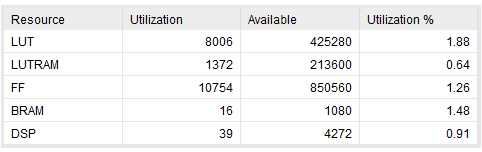
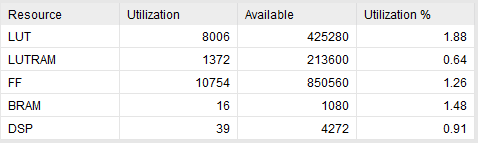
backing report up

diff --git a/report/19496 Final Report - Fraser O'Regan/main.tex b/report/19496 Final Report - Fraser O'Regan/main.tex
@@ -62,25 +62,52 @@
 \definecolor{mylilas}{RGB}{170,55,241}
 
 
+% Default fixed font does not support bold face
+\DeclareFixedFont{\ttb}{T1}{txtt}{bx}{n}{12} % for bold
+\DeclareFixedFont{\ttm}{T1}{txtt}{m}{n}{12}  % for normal
+
+% Custom colors
+\usepackage{color}
+\definecolor{deepblue}{rgb}{0,0,0.5}
+\definecolor{deepred}{rgb}{0.6,0,0}
+\definecolor{deepgreen}{rgb}{0,0.5,0}
+
+\usepackage{listings}
+
+% Python style for highlighting
+\newcommand\pythonstyle{\lstset{
+language=Python,
+basicstyle=\ttm,
+morekeywords={self},              % Add keywords here
+keywordstyle=\ttb\color{deepblue},
+emph={MyClass,__init__},          % Custom highlighting
+emphstyle=\ttb\color{deepred},    % Custom highlighting style
+stringstyle=\color{deepgreen},
+frame=tb,                         % Any extra options here
+showstringspaces=false
+}}
+
+
+% Python environment
+\lstnewenvironment{python}[1][]
+{
+\pythonstyle
+\lstset{#1}
+}
+{}
+
+% Python for external files
+\newcommand\pythonexternal[2][]{{
+\pythonstyle
+\lstinputlisting[#1]{#2}}}
+
+% Python for inline
+\newcommand\pythoninline[1]{{\pythonstyle\lstinline!#1!}}
+
+
 \begin{document}
 
 
-\lstset{language=Matlab,%
-    %basicstyle=\color{red},
-    breaklines=true,%
-    morekeywords={matlab2tikz},
-    keywordstyle=\color{blue},%
-    morekeywords=[2]{1}, keywordstyle=[2]{\color{black}},
-    identifierstyle=\color{black},%
-    stringstyle=\color{mylilas},
-    commentstyle=\color{mygreen},%
-    showstringspaces=false,%without this there will be a symbol in the places where there is a space
-    numbers=left,%
-    numberstyle={\tiny \color{black}},% size of the numbers
-    numbersep=9pt, % this defines how far the numbers are from the text
-    emph=[1]{for,end,break},emphstyle=[1]\color{red}, %some words to emphasise
-    %emph=[2]{word1,word2}, emphstyle=[2]{style},    
-}
 
 
 
@@ -116,7 +143,9 @@
 \section*{Nomenclature}
 \begin{itemize}
     \item \textcolor{red}{\large Fix references to all have same format and include access dates}
+    \textcolor{red}{GO THROUGH AND FIX NOMENCLATURE and equation symbols}
 \end{itemize}
+\addcontentsline{toc}{section}{Nomenclature}
 
 
 \subsection*{Abbreviations}
@@ -140,9 +169,11 @@ RTL & Register Transfer Level\\
 HLS & High Level Synthesis\\
 AXI & Advanced eXtensible Interface\\
 SDK & Software Development Kit\\
+XSA & Xilinx Support Archive\\
 OS & Operating System\\
 AM & Amplitude Modulation\\
 OFDM & Orthogonal Frequency Division Multiplexing\\
+FT & Fourier Transform
 NCO & Numerically Controlled Oscillator\\
 LUT & Look Up Table\\
 ROM & Read Only Memory\\
@@ -190,6 +221,7 @@ The primary aim of this project is to implement an SDR system on a novel piece o
 
 \newpage
 \section{Background \& Literature Review}
+\subsection{RFSoC Architecture}
 This project will focus on the implementation of the aforementioned software and design techniques onto the Zynq UltraScale+ RFSoC (which from now on will just be referred to as the RFSoC) by AMD \cite{amd_zynq_rfsoc}. The RFSoC is an all configurable system-on-chip (SoC) device targeted towards RF applications \cite{RFSoC_Book}. A system-on-chip is an integrated circuit (IC) that features almost all high level functions needed for computation into a single chip, as opposed to the traditional method of having these different components mounted to the motherboard. This allows for a far smaller and more portable package, making it ideal for applications such as communications, mobile devices, and many more. The RFSoCs architecture features two main sections, the Processing System (PS), and the Programmable Logic (PL). The AMD RFSoC utilises the software programmability of processors, in the form of either two or four ARM cores (depending on the generation), along with the hardware programmability of a Field Programmable Gate Array (FPGA). The PL features a number of different \enquote{hardened} blocks, aptly named due to the fact that they have their own dedicated space on the silicon and can not be reconfigured in either software or hardware. The different hardened blocks can be seen below in Figure \ref{fig:RFSoC_overview}.
 
 \begin{figure}[h]
@@ -199,14 +231,7 @@ This project will focus on the implementation of the aforementioned software and
     \label{fig:RFSoC_overview}
 \end{figure}
 
-From left to right, the hardened blocks shown in Figure \ref{fig:RFSoC_overview} are: Gigabit (GTY) transceivers, a high speed serial data link needed for communication to a core network when working with modern communication standards. Additionally, Soft Decision Forward Error Correction (SD-FEC) blocks feature on the chip, since almost all forms of wireless communications require, at some stage, an error correction phase which mitigates against the different errors procured in the wireless channel. Finally, the RFSoC has dedicated RF Data Converter (RFDC) blocks. These blocks can be configured as either Digital to Analogue Converters (DACs), for data transmission, or Analogue to Digital Converters (ADCs), which are used to convert real data to the digital domain, where the signal can be analysed using numerous DSP techniques.
-
-The PYNQ project by AMD \cite{PYNQ} is another supporting framework that focuses on SoC devices. PYNQ utilises Python application programming interfaces (APIs) to streamline the development of embedded systems on AMD chips. PYNQ itself is a small linux based boot image that runs on the chip, with different commands to control the hardware; however, PYNQ also utilises Jupyter notebooks, in which python code can be ran in different cells, along with accompanying markdown code for readability. Hardware Description Language (HDL) \enquote{bitstreams} can be accessed in the notebook as \enquote{overlays}. The overlays must be used in the project by exporting the Vivado block design, and locating the \textbf{\textit{.hwh}} and \textbf{\textit{.bit}} files. From there, they can be implemented, however an engineer may need and can be reused indefinitely, unless the overlay itself needs to be altered. There are many methods to design a custom overlay to be used in PYNQ; however, the most common ways include writing custom Register Transfer Level (RTL) code using VHDL or Verilog; Writing C/C++ code to be synthesised into HDL code through AMDs Vitis High Level Synthesis (HLS) tool \cite{AMD_Vitis_HLS_2024}; or through Vitis Model Composer, a block based modelling system that uses MATLAB and Simulink to generate HDL code \cite{AMD_Vitis_Model_Composer_2024}.
-
-\textcolor{red}{axi section here}
-
 The Advanced eXtensible Interface (AXI) is a communication protocol defined by ARM as part of the Advanced Microcontroller Bus Architecture (AMBA) standard \cite{axi_article}. The AXI4 standard has three different forms: AXI4-Lite, for simple, low-throughput communications,for example, driving an enable register pin; AXI4-Stream, for high-speed streaming data; and full AXI4, which is used for high-performance applications. Typically, embedded systems, such as FPGAs, operate with a master-slave topology between different devices \cite{strathsdr_axi}. The master device can connect to multiple slave devices through a communication protocol, and slave devices can be controlled by multiple masters, executing commands only when driven by a master device. AXI follows this same principle, with read and write channels transferring data between the master and slave components in a hardware design.
-
 
 AXI4 uses handshake operations, where a handshake is successful when both the valid and ready signals are high on the same clock cycle \cite{strathsdr_axi}. 
 
@@ -247,14 +272,43 @@ For example, to implement a stream of data on the master side, the signal would 
 
 The AXI4 protocol plays a fundamental role in modern embedded systems, particularly in AMD SoC devices. In this project, AXI4-Stream is essential for efficiently transferring large volumes of data between multiple IP cores within the FPGA, ensuring high-performance communication and system integration.
 
+From left to right, the hardened blocks shown in Figure \ref{fig:RFSoC_overview} are: Gigabit (GTY) transceivers, a high speed serial data link needed for communication to a core network when working with modern communication standards. Additionally, Soft Decision Forward Error Correction (SD-FEC) blocks feature on the chip, since almost all forms of wireless communications require, at some stage, an error correction phase which mitigates against the different errors procured in the wireless channel. Finally, the RFSoC has dedicated RF Data Converter (RFDC) blocks. These blocks can be configured as either Digital to Analogue Converters (DACs), for data transmission, or Analogue to Digital Converters (ADCs), which are used to convert real data to the digital domain, where the signal can be analysed using numerous DSP techniques.
 
-This project focuses on the BittWare RFX-8440 (referred to as the RFX from now on) L band transceiver PCIe card \cite{bittware2024rfx}. A high performance hardware device powered by a Gen3 RFSoC, with up to eight RFDCs, featuring Multi gigahertz bandwidth for any SDR applications necessary. Traditionally, PYNQ is only natively available on certain development boards created by AMD such as the RFSoC 2x2, 4x2, or the PYNQ Z-2 board. For PS-PL communication, the RFX uses PetaLinux, a Linux Software Development Kit (SDK) used for embedded Xilinx (AMD) processing systems. PetaLinux is a powerful tool for embedded system design, however, it is less user friendly than PYNQ due to the user needing a proprietary knowledge of the Linux kernel. PetaLinux is a small Linux based operating system which targets a specific hardware image using an exported .xsa file, and runs entirely on the PS.
+\subsection{Supporting Toolchains and Software}
+
+The PYNQ project by AMD \cite{PYNQ} is another supporting framework that focuses on SoC devices. PYNQ utilises Python application programming interfaces (APIs) to streamline the development of embedded systems on AMD chips. PYNQ itself is a small linux based boot image that runs on the chip, with different commands to control the hardware; however, PYNQ also utilises Jupyter notebooks, in which python code can be ran in different cells, along with accompanying markdown code for readability. Hardware Description Language (HDL) \enquote{bitstreams} can be accessed in the notebook as \enquote{overlays}. The overlays must be used in the project by exporting the Vivado block design, and locating the \textbf{\textit{.hwh}} and \textbf{\textit{.bit}} files. From there, they can be implemented, however an engineer may need and can be reused indefinitely, unless the overlay itself needs to be altered. There are many methods to design a custom overlay to be used in PYNQ; however, the most common ways include writing custom Register Transfer Level (RTL) code using VHDL or Verilog; Writing C/C++ code to be synthesised into HDL code through AMDs Vitis High Level Synthesis (HLS) tool \cite{AMD_Vitis_HLS_2024}; or through Vitis Model Composer, a block based modelling system that uses MATLAB and Simulink to generate HDL code \cite{AMD_Vitis_Model_Composer_2024}.
+
+
+This project focuses on the BittWare RFX-8440 (referred to as the RFX from now on) L band transceiver PCIe card \cite{bittware2024rfx}. A high performance hardware device powered by a Gen3 RFSoC, with up to eight RFDCs, featuring Multi gigahertz bandwidth for any SDR applications necessary. Traditionally, PYNQ is only natively available on certain development boards created by AMD such as the RFSoC 2x2, 4x2, or the PYNQ Z-2 board. For PS-PL communication, the RFX uses PetaLinux, a Linux Software Development Kit (SDK) used for embedded Xilinx (AMD) processing systems. PetaLinux is a powerful tool for embedded system design, however, it is less user friendly than PYNQ due to the user needing a proprietary knowledge of the Linux kernel. PetaLinux is a small Linux based operating system which targets a specific hardware image using an exported Xilinx Support Archive (.xsa) file, and runs entirely on the PS.
 
 Linux based operating systems (OS) are uncommon in most home laptops/PCs but are extremely common in industry applications. Linux is almost guaranteed to be the operating system of choice for data centres, R\&D labs, servers, and even more. Linux is extremely important to the infrastructure of communication systems, as all network protocol servers will run some sort of Linux distribution. Linux is so popular because of its open-source nature, meaning that anyone has access to the source code, giving them the ability to customise the operating system and create specific distributions. 
 
 GNU Radio has many tutorials to get someone up to speed with the software, as well as having a recommended reading section for general SDR and communication techniques. These tutorials range from simple Amplitude Modulation (AM), to Orthogonal Frequency Division Multiplexing (OFDM), a far more advanced communication technique, where a signal is split up into multiple narrowband carrier frequencies rather than taking up lots of bandwidth with one carrier frequency \cite{ofdm_paper}. These tutorials are an extremely useful learning tool, as they provide an interactive experience where someone can build different types of communication systems along with learning about them.
 
 GNU Radio has been around for over 20 years, and with the ever growing application and need for SDR systems to be used in everyday environments, GNU Radio has served as an incredibly useful tool. Whether someone is new to SDR or is a veteran, GNU Radio provides a fantastic platform for developing these systems. As mentioned earlier, GNU Radio provides something called an ‘out of tree’ (OOT) module, this is essentially a custom block that is either written in C++ (for more computationally intensive DSP) or Python (for simpler tasks). These OOT modules are aptly named since they are not part of GNU Radios ‘source tree’ [10], or more simply, are not native to the software. There are a number of heavily supported hardware that GNU Radio mentions on their website. This hardware is usually relatively inexpensive which makes it great for beginners, however, the RFX is not one of these boards. GNU Radio has something called the ‘Catch-All Clause’ which states that any hardware device that can be accessed by an operating system can support GNU Radio, usually by writing custom device drivers in the form of sinks or sources. Since this project focuses mostly on the deployment of an SDR system, there is a workaround for writing custom drivers for the RFX.
+
+\subsection{Important DSP Fundamentals}
+
+Throughout this project, a number of DSP and communication theory was used to design, assess, and confirm the operation of different systems within this project. This section will cover a number of basic DSP and communication fundamentals to allow the reader to have a better understanding of the different concepts being discussed throughout this project. Arguably the most important concept in DSP (and signal processing in general) is the Fourier Transform (FT). The FT is a highly complex concept with many different applications in different fields of engineering and science, so this report will not dive particularly deep into the derivation of how the FT came to be, but will focus more on its definition, and how it is used in this case. The FT stems from the Fourier series, discovered by Joseph Fourier, which essentially states that any periodic signal can be decomposed into a sum of different harmonically related sine and cosine components \cite{RFSoC_Book}. In the context of signal processing, the FT takes any signal, which is assumed to periodic (if not - it is assumed the signal is periodic at $t=\infty$), and produces a number of coefficients that represent a magnitude and phase of the signal over time. These coefficients can then be plotted to produce a waveform which can tell an engineer about the frequency properties of a signal. The FT is defined in Equation \ref{eq:fourier Transform}.
+
+\begin{equation}
+    X(j\omega) = \int_{-\infty}^{\infty}x(t)e^{-j\omega t}dt\label{eq:fourier Transform}
+\end{equation}
+
+Taking the FT of a wave form can be thought of as transforming the signal from the time domain, to the frequency domain. To illustrate this, a time domain and its frequency domain counterpart were plotted in MATLAB. This is shown in Figure \ref{fig:FT_example}.
+
+\begin{figure}[h]
+    \centering
+    \includegraphics[scale=0.45]{IMAGES/Sine.png}
+    \includegraphics[scale=0.45]{IMAGES/Sine_FT.png}
+    \caption{Time and Frequency Domain Representations of Sinusoid at $1Hz$}
+    \label{fig:FT_example}
+\end{figure}
+
+The FT of the signal shows a peak at $1Hz$, which is the exact frequency of the signal present. However, in more real world examples, the FT of a signal can show multiple peaks at different frequencies as signals can have many different frequency components. In most cases, the FT is not directly computed, as it is quite inefficient to calculate as it takes $n^2$ operations. More commonly, a DSP algorithm called the Fast Fourier Transform (FFT) of a signal is calculated as it is far more computationally inexpensive, allowing for more complex signals to be analysed.
+
+\subsection{Previous Work}
+\textcolor{red}{Maybe change this name}
 
 section plan:
 
@@ -298,7 +352,7 @@ section plan:
     \item With axi stream, talk about how the data needs to be formatted before being sent out.
     \item Talk about ILA t
     \item \textcolor{red}{talk about gnu radio proposed design}
-    \item \textcolor{red}{}
+    \item \textcolor{red}{talk about issues ran into that and why u made changes to fix them - then go into more detail in Discussion}
 \end{itemize}                          
 \newpage
 
@@ -477,6 +531,8 @@ The RFSoC 2x2 is no longer manufactured and has since been replaced by the newer
 
 \paragraph{BittWare RFX-8440 2x100gbe Design Implementation} The Design implementation for the RFX is slightly different to that of the RFSoC 2x2, as the custom transmitter and receiver were instantiated as components inside of a significantly larger design. When shipping their cards, BittWare includes a number of \enquote{reference} designs, which are used to help customers understand and test the operation of the card, without having to design systems completely from the ground up. This design approach was taken for this project, as the previously mentioned transmitter and receiver were implemented within a larger design, rather than a fully custom one. The reference design in this case is the RFX8440-2x100gbe, which configures the entire FPGA, including all RFDC channels, the gigabit transceivers, and the PS. The project is aptly named because of it uses the two 100 gigabit Ethernet Quad Small Form-factor Pluggable (QSFP) transceivers, which can be connected to the card for high speed optical communications. The block diagram from BittWare's framework logic guide of the 2x100gbe design can be seen in Figure \ref{fig:2x100gbe_block_diagram} \cite{RFX_framework}.
 
+\textcolor{red}{TALK ABOUT THE FOLDER STRUCTURE}
+
 \begin{figure}[h!]
     \centering
     \includegraphics[scale=1]{IMAGES/Picture 1.png}
@@ -484,13 +540,11 @@ The RFSoC 2x2 is no longer manufactured and has since been replaced by the newer
     \label{fig:2x100gbe_block_diagram}
 \end{figure}
 
-\textcolor{red}{ADD BLOCK DESIGN FOR RFX FROM DEREK \& talk about how to build the project}
-
 This design is highly complex, since it features all components of the FPGA in a single bitstream. Inside of the design, and in Figure \ref{fig:2x100gbe_block_diagram}, is the DSP placeholder block, which has been designed for customers or other engineers to implement there own form of DSP without having to reconfigure the entire design with all of the I/O. Despite what Figure \ref{fig:2x100gbe_block_diagram} shows, the DSP placeholder is not an actual block inside of the Vivado IP integrator design that can be replaced with the users IP, but rather a VHDL file named \textbf{ii\_dsp\_top.vhd}. Functionally, this file connects the RFDCs together, involving no DSP at either the DAC or ADC side. The reference designs are inside a folder that can be downloaded or purchased by customers that may be interested in starting their designs from a known point. Building the Vivado project involves navigating to the 2x100gbe project folder inside of the Vivado Tool command language (Tcl) console \cite{AMD_Vivado_Tcl}, then running the \textbf{Build\_Vivado.tcl} script. This script launches the project and builds the block design(s) with the necessary IP added, and connections already made, a process which can take up to an hour.
 
 Implementing custom IP inside of the 2x100gbe design is slightly different to that of the 2x2 design, as it is not added inside of a block design, but rather through a component instantiation using VHDL. When the transmitter IP is added to the project, its output products are generated, which includes an instantiation template inside of the \textbf{.vho} file. VHDL components are how separate top level entity declarations can be re-used inside of other designs. The component definition for the transmitter design can be seen in Listing \ref{list: tx def}.
 
-\begin{listing}[h]
+\begin{listing}[h!]
 \begin{minted}{vhdl}
 COMPONENT DUT_data_in_16bit
   PORT (
@@ -514,7 +568,7 @@ END COMPONENT;
 
 After defining the component inside of the \textbf{dsp\_top} entity, it can then be instantiated, as in Listing \ref{list: component instantiation}.
 
-\begin{listing}[h]
+\begin{listing}[h!]
 \begin{minted}{vhdl}
   fraser_user_code : DUT_data_in_16bit
   PORT MAP (
@@ -563,12 +617,25 @@ The question mark operator exports the contents of the bitstream into the jupyte
 
 After loading the overlay onto the FPGA, it is necessary to configure the reference clocks in software before initiating any PS–PL communication. The two required reference clocks for configuring the 2x2 board are the LMX and LMK clocks. These reference clocks are aptly named because they provide a high precision, low jitter clock for the RFDCs to use as a reference when generating their own clocks. Jitter refers to the variation in clock period between two consecutive cycles over a span of 1000 cycles \cite{jitter}. The required frequencies for the LMK and LMX clocks can be found in the  Xilinx PYNQ GitHub repository, specifically in the \textbf{xrfclk} package, which also includes a built in function to set the reference clocks with user defined frequencies, according to the board.
 
-Although the RFDCs are pre-configured in hardware, they must also be properly initialized in software for the design to function correctly. Extensive resources are available online for configuring RFDCs, with the StrathSDR GitHub page being a particularly valuable source, offering numerous open-source projects that utilize RFSoC and configure it through PYNQ. This is achieved using the \textbf{xrfdc} Python package, which provides an interface to the RFDCs, ensuring proper clock configuration, dynamic Phase-Locked Loop (PLL) adjustments without requiring a bitstream reload, and setting mixer parameters along with Nyquist zones. The data converter settings are configured in two Python function declarations, but can be altered by the user to specify different sampling frequencies, or ADC/DAC tiles.
+Although the RFDCs are pre-configured in hardware, they must also be properly initialized in software for the design to function correctly. Extensive resources are available online for configuring RFDCs, with the StrathSDR GitHub page being a particularly valuable source, offering numerous open-source projects that utilize RFSoC and configure it through PYNQ. This is achieved using the \textbf{xrfdc} Python package, which provides an interface to the RFDCs, ensuring proper clock configuration, dynamic Phase-Locked Loop (PLL) adjustments without requiring a bitstream reload, and setting mixer parameters along with Nyquist zones. The data converter settings are configured in two Python function declarations, but can be altered by the user to specify different sampling frequencies, or ADC/DAC tiles. The settings for the RFDCs have the mixer configured as a fine mixer that outputs $0Hz$ to allow for correct DAC and ADC mixing. Even though no mixer was used in the hardware configuration, the older generation RFSoCs expect some mixer settings to be applied in software to allow for correct configuration so this was chosen since it would not interfere with the incoming signal and still allow for data transmission.
 
-Following on from this, the 
+Following on from this, the PS-PL communication could be established. This was done through the assignment of the both the DMAs and RFDC to a Python variable, which could be called back later when transferring data. The exact name of the IP that is assigned to the variable can be found through the previously mentioned $(?)$ operator under the \textbf{IP Blocks} section. The variable is then assigned through the use of the $(.)$ operator to assign a new variable to specific IP. Listing \ref{list:DMA Assignment} shows the assignment of a variable $tx\_dma$ to the transmit side DMA block.
 
+\begin{listing}[h]
+\begin{minted}{vhdl}
+tx_dma = ol.TX.axi_dma_tx
+\end{minted}
+\caption{Python DMA Variable Assignment}
+\label{list:DMA Assignment}
+\end{listing}
+
+Finally, the built-in \textbf{Allocate} package is used to allocate DMA buffers in memory which can then be transferred between PS and PL. In this design, both the send buffer and the receive buffer both have a size of 4000 samples (the maximum at which PYNQ allows), to ensure clarity when receiving data. The data can then be sent using the \textbf{transfer} function on both the send and receive DMA channels. These lines of code are then followed by the \textbf{wait} function which waits until the DMA channel goes back to an idle state. Following on from this, the received DMA buffer can be plotted using the \textbf{matplotlib} package, a comprehensive tool for data visualisation and plotting.
 
 \subsubsection{PetaLinux}
+
+PetaLinux has a more complex deployment process, as a PetaLinux image needs to be accompanied by a specific bitstream. This means that testing and confirming design choices can take significantly longer when working with a board that does not support PYNQ. BittWare thankfully has a set build process for creating and customising PetaLinux images through some documentation and build scripts. However, the RFX needs specific hardware settings to configure properly, specifically on the PS, which needs to have a number of different ports enabled for communication with the images boot file system. This means that creating completely custom images in PetaLinux can be a painstaking and long process which takes significant design effort and time. This is another reason as to why the reference design was used, as the hardware design was properly configured to allow the PetaLinux image to build and run properly, as it had been through significant testing throughout its design stage.
+
+The first step in creating the PetaLinux image is to export the hardware image (bitstream) to a \textbf{.xsa} file, saved in the specified PetaLinux folder within the larger reference design folder. This xsa file is slightly different to the overlays seen in PYNQ development, as it features a number of different files inside which tell the PetaLinux build about the hardware design - rather than the two overlay files that PYNQ needs to configure hardware. Although, newer PYNQ releases do feature support for xsa files, which streamlines the development process slightly, since the \textbf{.bit} and \textbf{.hwh} files do not need to be found within the file structure of the Vivado project.
 
 
 \newpage
